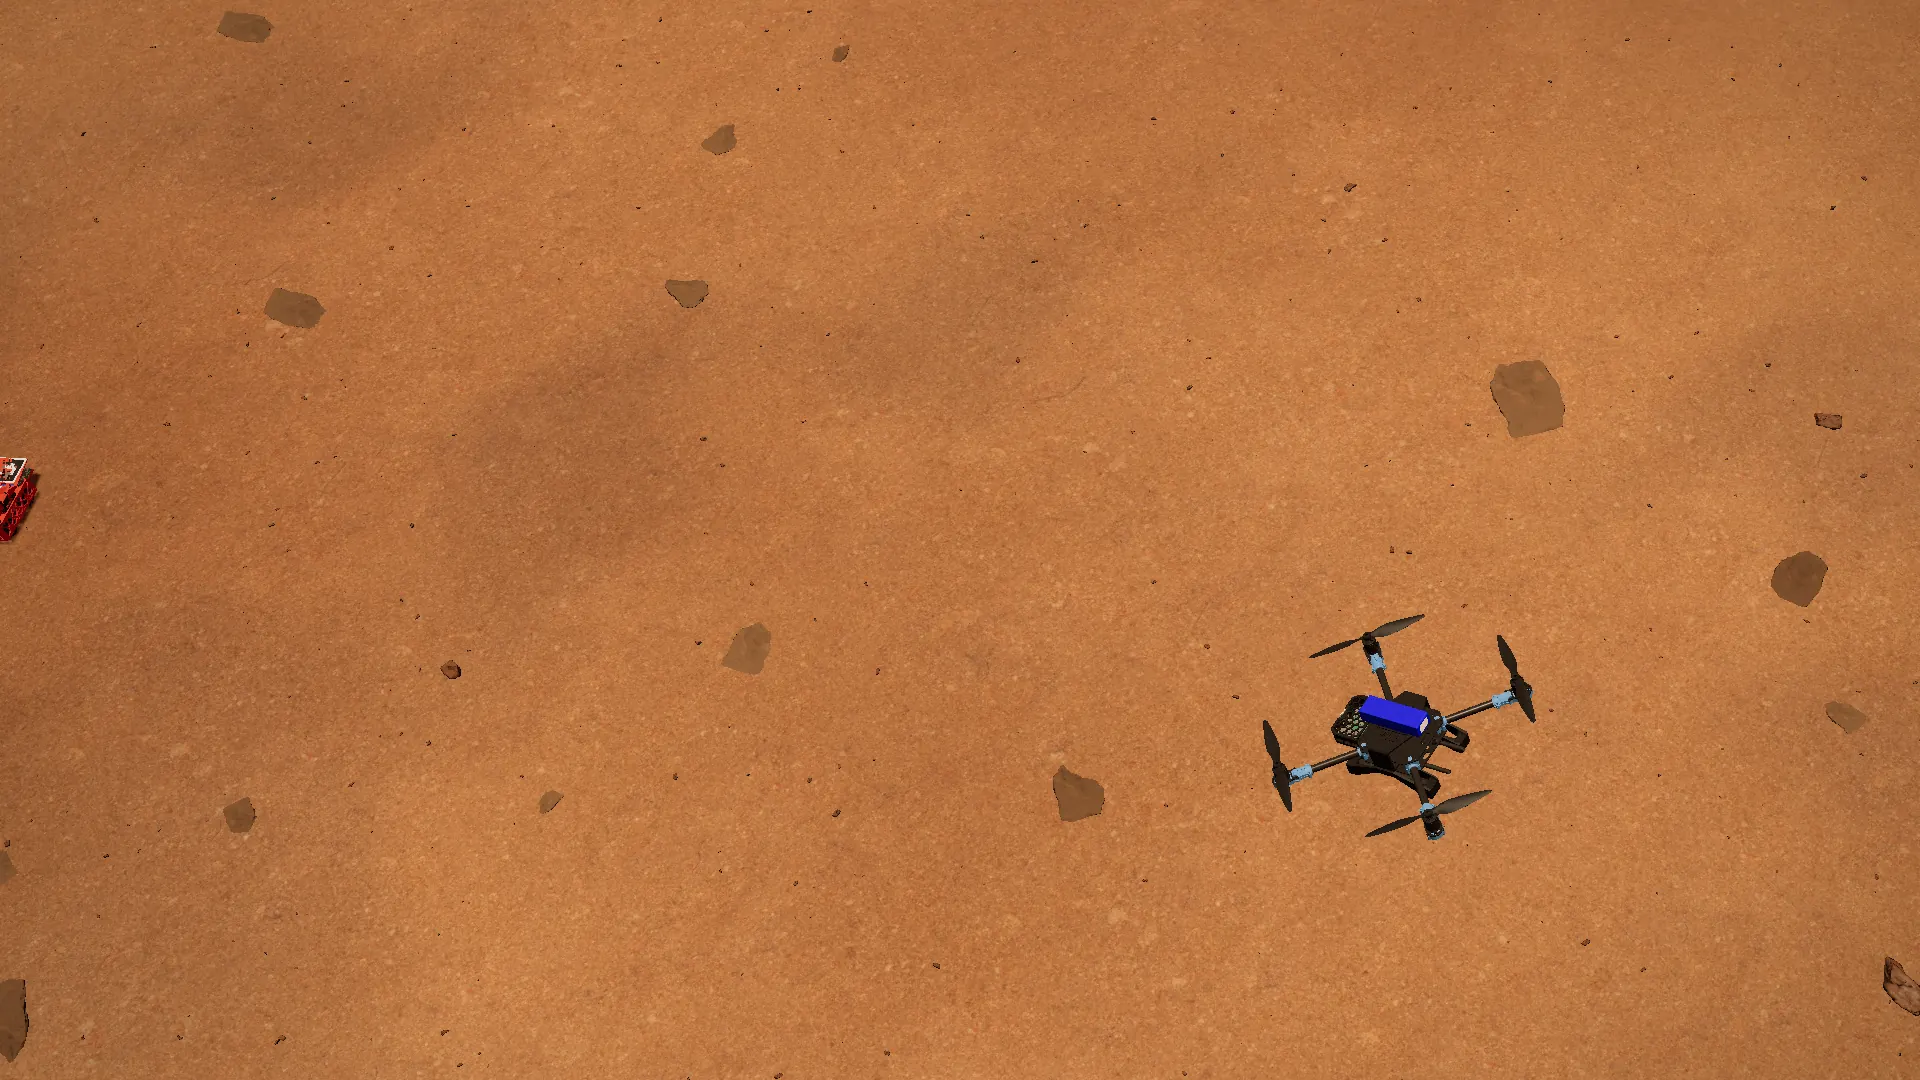
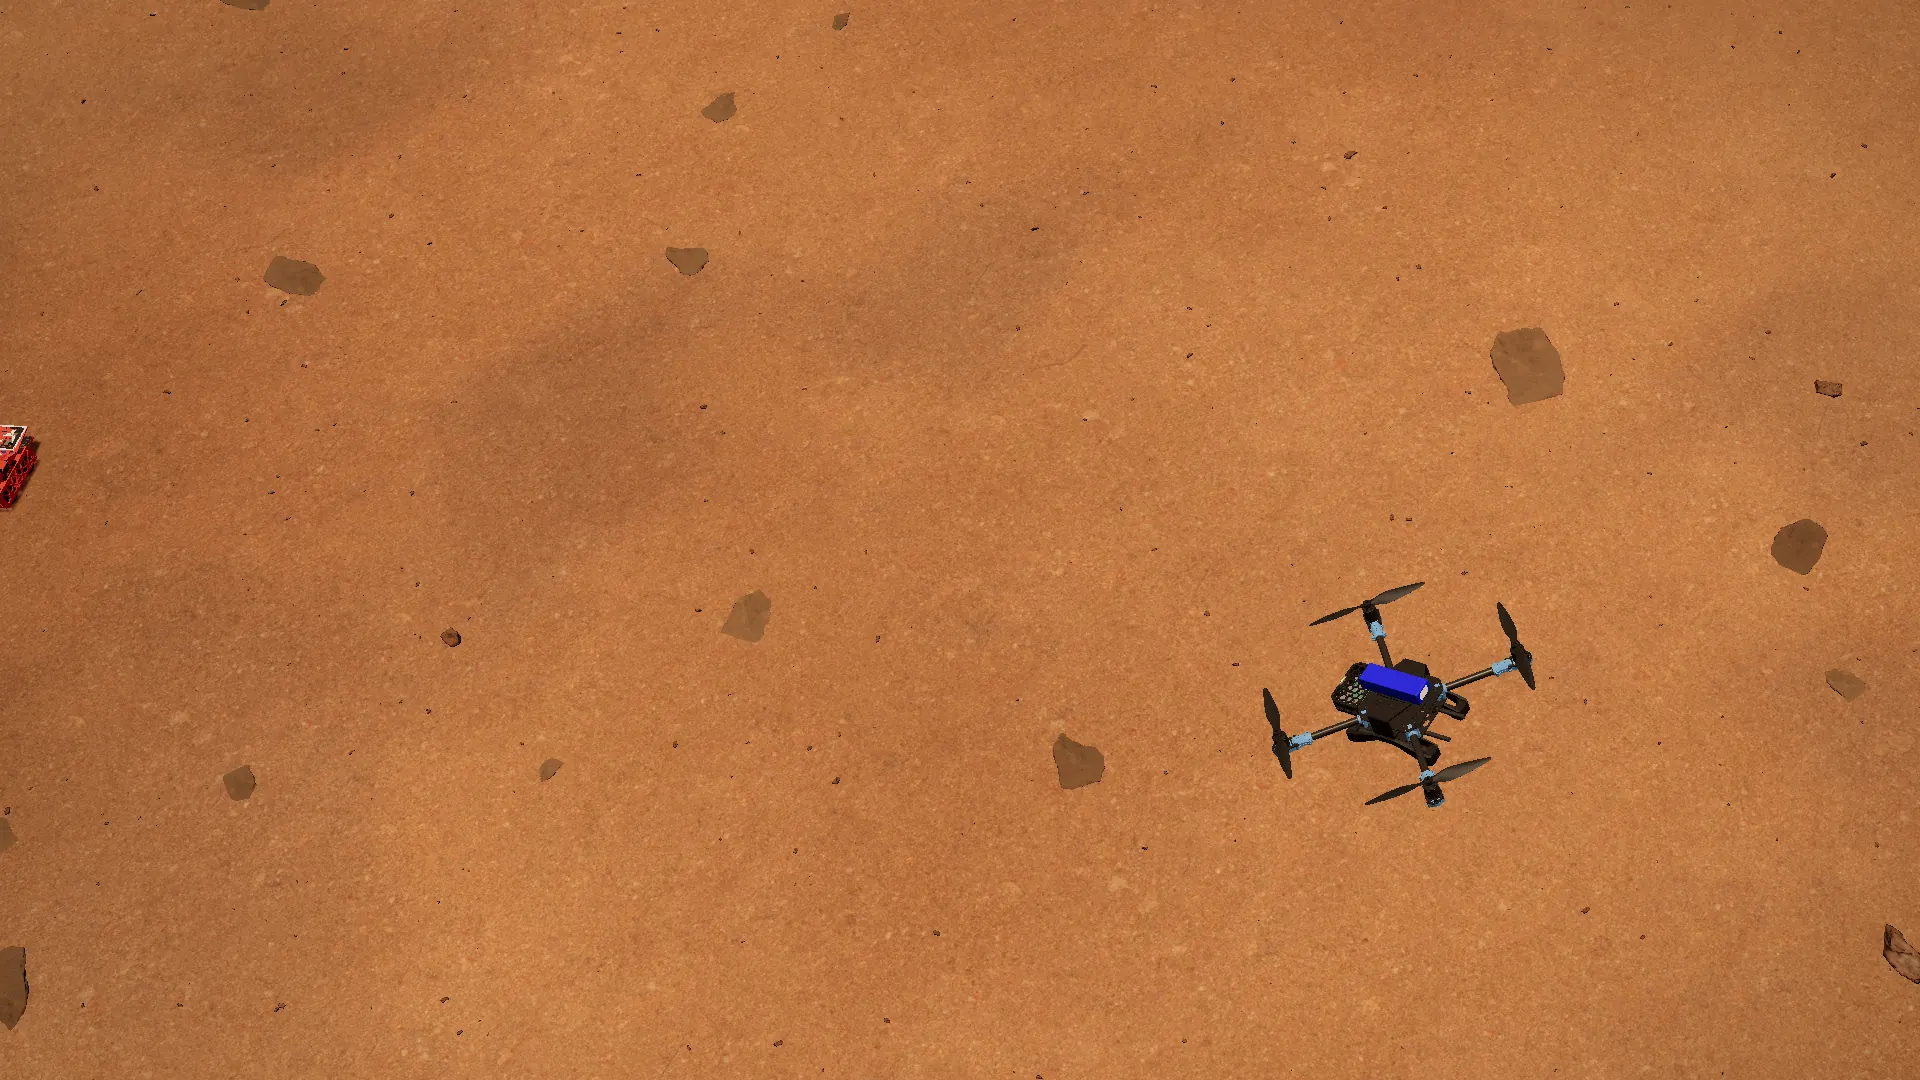
Drone on Wheels card: wide and short (about 4/5 of the right side), drone recentred below it
Claude-Session: https://claude.ai/code/session_01Fb2pgJPTDwSNCCPVLqNuft

diff --git a/assets/css/site.css b/assets/css/site.css
@@ -98,7 +98,7 @@ button { font: inherit; color: inherit; background: none; border: 0; padding: 0;
 .bg { position: fixed; inset: 0; z-index: 0; background: #2a1812; }
 .bg-still, .bg-canvas { position: absolute; inset: 0; width: 100%; height: 100%; }
 /* anchored on the point the 3D camera frames the drone on, so the fade from still to live lines up */
-.bg-still { object-fit: cover; object-position: 73% 68%; transition: opacity 1s var(--ease); }
+.bg-still { object-fit: cover; object-position: 73% 65%; transition: opacity 1s var(--ease); }
 .bg-canvas { opacity: 0; display: block; transition: opacity 1s var(--ease); }
 .bg.live .bg-canvas { opacity: 1; }
 .bg.live .bg-still { opacity: 0; }
@@ -123,8 +123,11 @@ button { font: inherit; color: inherit; background: none; border: 0; padding: 0;
 .content { position: relative; z-index: 2; }
 
 /* first screen: intro + staggered featured work on the left, the live project on the right */
-.hero { min-height: 100vh; min-height: 100svh; padding: 84px var(--gutter) 40px; display: flex; flex-direction: column; justify-content: center; position: relative; }
-.hero-left { width: min(47vw, 780px, calc((100svh - 490px) * 1.5)); min-width: min(500px, 100%); }
+.hero {
+  --left-w: max(min(47vw, 780px, calc((100svh - 490px) * 1.5)), 500px);
+  min-height: 100vh; min-height: 100svh; padding: 84px var(--gutter) 40px; display: flex; flex-direction: column; justify-content: center; position: relative;
+}
+.hero-left { width: var(--left-w); max-width: 100%; }
 .hello { padding: 0 0 24px; }
 .name { font-size: clamp(40px, 4.2vw, 64px); font-weight: 800; font-stretch: 125%; letter-spacing: -0.035em; line-height: 0.92; }
 .lede { margin-top: 12px; max-width: 54ch; font-size: clamp(15.5px, 1.15vw, 18px); line-height: 1.45; color: var(--text-2); font-weight: 450; }
@@ -151,25 +154,27 @@ button { font: inherit; color: inherit; background: none; border: 0; padding: 0;
 
 /* the project the live scene shows, top right over the scene */
 .scene-card {
-  position: absolute; z-index: 3; top: 86px; right: var(--gutter); width: min(410px, 30vw);
-  padding: 18px 22px 16px; border-radius: 18px;
+  /* wide and short: about four fifths of the space right of the text, so it covers little of the scene */
+  position: absolute; z-index: 3; top: 86px; right: var(--gutter);
+  width: calc((100vw - 2 * var(--gutter) - var(--left-w)) * 0.78);
+  padding: 16px 20px 14px; border-radius: 18px;
   background: rgba(12, 10, 9, 0.64); border: 1px solid rgba(255, 255, 255, 0.12);
   backdrop-filter: blur(14px) saturate(1.1); -webkit-backdrop-filter: blur(14px) saturate(1.1);
   box-shadow: 0 30px 60px -30px rgba(0, 0, 0, 0.8);
 }
 .sc-k { display: flex; align-items: center; gap: 9px; font-size: 12.5px; color: var(--text-2); }
-.scene-card h2 { margin-top: 10px; font-size: clamp(28px, 2.4vw, 38px); font-weight: 800; font-stretch: 122%; letter-spacing: -0.03em; line-height: 0.95; }
-.sc-sub { margin-top: 7px; font-size: 13.5px; color: var(--muted); }
+.sc-head { display: flex; align-items: flex-end; justify-content: space-between; gap: 16px; margin-top: 8px; }
+.scene-card h2 { font-size: clamp(26px, 2.3vw, 36px); font-weight: 800; font-stretch: 122%; letter-spacing: -0.03em; line-height: 0.95; }
+.sc-sub { margin-top: 6px; font-size: 13.5px; color: var(--muted); }
 .sc-p { margin-top: 10px; font-size: 14.5px; line-height: 1.45; color: var(--text-2); }
-.sc-fact { margin-top: 10px; padding: 8px 12px; border-radius: 10px; background: rgba(255, 255, 255, 0.06); border: 1px solid var(--line); font-size: 13.5px; color: var(--text-2); }
+.sc-fact { margin-top: 10px; padding: 7px 12px; border-radius: 10px; background: rgba(255, 255, 255, 0.06); border: 1px solid var(--line); font-size: 13.5px; color: var(--text-2); }
 .sc-fact b { color: var(--text); font-weight: 700; font-stretch: 110%; }
-.sc-hint { margin-top: 10px; padding-top: 10px; border-top: 1px solid var(--line); font-size: 12.5px; line-height: 1.45; color: var(--muted); }
+.sc-hint { display: flex; align-items: baseline; justify-content: space-between; gap: 14px; margin-top: 10px; padding-top: 9px; border-top: 1px solid var(--line); font-size: 12.5px; line-height: 1.45; color: var(--muted); }
 .h-touch { display: none; }
 @media (hover: none) { .h-fine { display: none; } .h-touch { display: inline; } }
-.sc-actions { display: flex; align-items: center; gap: 18px; margin-top: 12px; }
-.sc-go { display: inline-flex; align-items: center; gap: 8px; padding: 10px 18px; border-radius: 999px; background: var(--text); color: var(--bg); font-size: 14.5px; font-weight: 650; transition: background 0.2s; }
+.sc-go { flex: none; display: inline-flex; align-items: center; gap: 8px; padding: 10px 18px; border-radius: 999px; background: var(--text); color: var(--bg); font-size: 14.5px; font-weight: 650; transition: background 0.2s; }
 .sc-go:hover { background: var(--accent); }
-.sc-drive { font-size: 14px; color: var(--text-2); text-decoration: underline; text-underline-offset: 3px; text-decoration-color: rgba(255, 255, 255, 0.3); transition: color 0.2s; }
+.sc-drive { flex: none; font-size: 13px; color: var(--text-2); text-decoration: underline; text-underline-offset: 3px; text-decoration-color: rgba(255, 255, 255, 0.3); transition: color 0.2s; }
 .sc-drive:hover { color: var(--text); }
 
 /* bottom right: a fanned hand of project photos and the count of what is below */
@@ -364,18 +369,17 @@ figcaption { margin-top: 8px; font-size: 13.5px; color: var(--muted); line-heigh
 @media (max-width: 1080px) {
   .p-grid { grid-template-columns: 1fr; }
   .facts { position: static; }
-  .hero-left { width: min(56vw, 760px); }
+  .hero { --left-w: min(56vw, 760px); }
 }
 @media (max-width: 960px) {
   .hero { min-height: auto; padding-top: 46vh; padding-bottom: 120px; }
   .hero-left { width: 100%; }
   .veil { background: linear-gradient(180deg, rgba(10, 8, 7, 0.35) 0%, rgba(10, 8, 7, 0.1) 18%, rgba(10, 8, 7, 0.72) 36%, rgba(10, 8, 7, 0.9) 60%); }
   .bg-still { object-position: 52% 36%; }
-  .scene-card { top: 62px; left: var(--gutter); right: var(--gutter); width: auto; padding: 14px 16px; }
-  .scene-card h2 { margin-top: 6px; font-size: 26px; }
+  .scene-card { top: 62px; left: var(--gutter); right: var(--gutter); width: auto; padding: 13px 15px 12px; }
+  .scene-card h2 { font-size: 25px; }
   .sc-p, .sc-fact { display: none; }
-  .sc-hint { margin-top: 8px; padding-top: 8px; }
-  .sc-actions { margin-top: 10px; }
+  .sc-hint { margin-top: 9px; padding-top: 8px; }
   .sc-go { padding: 8px 15px; font-size: 14px; }
   .more { right: auto; left: 50%; transform: translateX(-50%); bottom: 14px; gap: 10px; padding: 9px 12px; }
   .more:hover { transform: translateX(-50%); }

diff --git a/index.html b/index.html
@@ -17,18 +17,18 @@
 <link rel="preconnect" href="https://fonts.googleapis.com">
 <link rel="preconnect" href="https://fonts.gstatic.com" crossorigin>
 <link rel="stylesheet" href="https://fonts.googleapis.com/css2?family=Mona+Sans:wdth,wght@75..125,200..900&display=swap">
-<link rel="stylesheet" href="/assets/css/site.css?v=eddb979d">
+<link rel="stylesheet" href="/assets/css/site.css?v=040d314d">
 <meta name="robots" content="noindex">
 <script type="importmap">{"imports":{"three":"/assets/vendor/three.module.min.js?v=512c8b83"}}</script>
-<link rel="preload" as="image" href="/assets/img/hero-still.webp?v=0dc93ff6" media="(min-width: 960px)" fetchpriority="high">
+<link rel="preload" as="image" href="/assets/img/hero-still.webp?v=c9bd01a6" media="(min-width: 960px)" fetchpriority="high">
 <link rel="preload" as="image" href="/assets/img/hero-still-m.webp?v=9de95548" media="(max-width: 959px)" fetchpriority="high">
 <script type="application/ld+json">{"@context":"https://schema.org","@type":"Person","name":"Jerry Li","url":"https://www.jerryli.design","email":"mailto:jerry@jerryli.design","sameAs":["https://www.linkedin.com/in/jerry-li-md/","https://github.com/jerryli08"],"alumniOf":"University of Illinois Urbana-Champaign","jobTitle":"Mechanical Engineering Student"}</script>
 </head>
 <body class="home">
 <a class="sr-only" href="#work">Skip to projects</a>
 <div class="bg" data-stage aria-hidden="true">
-  <picture><source media="(max-width: 959px)" srcset="/assets/img/hero-still-m.webp?v=9de95548"><img class="bg-still" src="/assets/img/hero-still.webp?v=0dc93ff6" alt="" width="1920" height="1080"></picture>
-  <canvas class="bg-canvas" data-world="landing" data-hero="/assets/js/world.js?v=96dcac58"></canvas>
+  <picture><source media="(max-width: 959px)" srcset="/assets/img/hero-still-m.webp?v=9de95548"><img class="bg-still" src="/assets/img/hero-still.webp?v=c9bd01a6" alt="" width="1920" height="1080"></picture>
+  <canvas class="bg-canvas" data-world="landing" data-hero="/assets/js/world.js?v=44ca16cd"></canvas>
 </div>
 <div class="veil" aria-hidden="true"></div>
 <div class="veil-dim" data-dim aria-hidden="true"></div>
@@ -74,12 +74,13 @@
     </div>
     <aside class="scene-card" aria-labelledby="scene-card-h">
   <p class="sc-k"><span class="dot"></span>Live 3D of this project, from my Fusion 360 CAD</p>
-  <h2 id="scene-card-h">Drone on Wheels</h2>
-  <p class="sc-sub">MIT Lincoln Laboratory · 2025</p>
+  <div class="sc-head">
+    <div><h2 id="scene-card-h">Drone on Wheels</h2><p class="sc-sub">MIT Lincoln Laboratory · 2025</p></div>
+    <a class="sc-go" href="/projects/hybrid-vehicle">See more <span class="arrow" aria-hidden="true">&#8599;</span></a>
+  </div>
   <p class="sc-p">A drone and a ground rover that dock together, so each one can carry the other. I came up with it, led the 7-person team, and designed and built all of the hardware.</p>
   <p class="sc-fact"><b>First author</b> of the research poster at IEEE MIT URTC 2025</p>
-  <p class="sc-hint"><span class="h-fine">Move your cursor: the rover drives there. Point far away and the drone carries it over.</span><span class="h-touch">Tap the ground: the rover drives there. Tap far away and the drone carries it over.</span></p>
-  <div class="sc-actions"><a class="sc-go" href="/projects/hybrid-vehicle">See more <span class="arrow" aria-hidden="true">&#8599;</span></a><a class="sc-drive" href="/drive">Drive it yourself</a></div>
+  <p class="sc-hint"><span><span class="h-fine">Move your cursor: the rover drives there. Point far away and the drone carries it over.</span><span class="h-touch">Tap the ground: the rover drives there. Tap far away and the drone carries it over.</span></span><a class="sc-drive" href="/drive">Drive it yourself</a></p>
 </aside>
   </section>
   <section class="work" id="work" aria-labelledby="work-h">

diff --git a/assets/js/world.js b/assets/js/world.js
@@ -770,7 +770,7 @@ export async function initWorld(canvas, opts = {}) {
     if (!AIR.on && dist > FLY_DIST) takeoff();
   }
   function pickWander() {
-    const A = frame.wide ? [0.52, 0.94, 0.52, 0.86] : [0.12, 0.88, 0.3, 0.44]; // clear of the text and the project card
+    const A = frame.wide ? [0.52, 0.94, 0.47, 0.86] : [0.12, 0.88, 0.3, 0.44]; // clear of the text and the project card
     const hopper = rnd() < 0.25; // now and then it flies instead of driving
     for (let i = 0; i < 24; i++) {
       const g = groundAt(lerp(A[0], A[1], rnd()), lerp(A[2], A[3], rnd()), hit);
@@ -916,7 +916,7 @@ export async function initWorld(canvas, opts = {}) {
     if (mode === 'landing') {
       const wide = w >= 960;
       frame.wide = wide;
-      frame.fx = wide ? 0.73 : 0.52; frame.fy = wide ? 0.68 : 0.36;
+      frame.fx = wide ? 0.73 : 0.52; frame.fy = wide ? 0.65 : 0.36;
       const F = wide ? 30 : 44; // visible vertical field of view
       const W2 = frame.fx >= 0.5 ? 2 * frame.fx * w : 2 * (1 - frame.fx) * w;
       const H2 = frame.fy >= 0.5 ? 2 * frame.fy * h : 2 * (1 - frame.fy) * h;

diff --git a/drive.html b/drive.html
@@ -17,12 +17,12 @@
 <link rel="preconnect" href="https://fonts.googleapis.com">
 <link rel="preconnect" href="https://fonts.gstatic.com" crossorigin>
 <link rel="stylesheet" href="https://fonts.googleapis.com/css2?family=Mona+Sans:wdth,wght@75..125,200..900&display=swap">
-<link rel="stylesheet" href="/assets/css/site.css?v=eddb979d">
+<link rel="stylesheet" href="/assets/css/site.css?v=040d314d">
 <meta name="robots" content="noindex">
 <script type="importmap">{"imports":{"three":"/assets/vendor/three.module.min.js?v=512c8b83"}}</script>
 </head>
 <body class="drive">
-<canvas class="drive-canvas" data-world="drive" data-hero="/assets/js/world.js?v=96dcac58"></canvas>
+<canvas class="drive-canvas" data-world="drive" data-hero="/assets/js/world.js?v=44ca16cd"></canvas>
 <div class="drive-hud">
   <a class="chip" href="/">&larr; Back to portfolio</a>
   <p class="chip drive-title"><span class="dot"></span>Ground vehicle from <a href="/projects/hybrid-vehicle">Drone on Wheels</a>, rendered from my CAD</p>

diff --git a/404.html b/404.html
@@ -17,7 +17,7 @@
 <link rel="preconnect" href="https://fonts.googleapis.com">
 <link rel="preconnect" href="https://fonts.gstatic.com" crossorigin>
 <link rel="stylesheet" href="https://fonts.googleapis.com/css2?family=Mona+Sans:wdth,wght@75..125,200..900&display=swap">
-<link rel="stylesheet" href="/assets/css/site.css?v=eddb979d">
+<link rel="stylesheet" href="/assets/css/site.css?v=040d314d">
 <meta name="robots" content="noindex">
 </head>
 <body class="project"><nav class="nav" aria-label="Main">

diff --git a/projects/autonomous-drone-racing.html b/projects/autonomous-drone-racing.html
@@ -17,7 +17,7 @@
 <link rel="preconnect" href="https://fonts.googleapis.com">
 <link rel="preconnect" href="https://fonts.gstatic.com" crossorigin>
 <link rel="stylesheet" href="https://fonts.googleapis.com/css2?family=Mona+Sans:wdth,wght@75..125,200..900&display=swap">
-<link rel="stylesheet" href="/assets/css/site.css?v=eddb979d">
+<link rel="stylesheet" href="/assets/css/site.css?v=040d314d">
 <meta name="robots" content="noindex">
 </head>
 <body class="project">

diff --git a/projects/battlebot.html b/projects/battlebot.html
@@ -17,7 +17,7 @@
 <link rel="preconnect" href="https://fonts.googleapis.com">
 <link rel="preconnect" href="https://fonts.gstatic.com" crossorigin>
 <link rel="stylesheet" href="https://fonts.googleapis.com/css2?family=Mona+Sans:wdth,wght@75..125,200..900&display=swap">
-<link rel="stylesheet" href="/assets/css/site.css?v=eddb979d">
+<link rel="stylesheet" href="/assets/css/site.css?v=040d314d">
 <meta name="robots" content="noindex">
 </head>
 <body class="project">

diff --git a/projects/bike-odometer.html b/projects/bike-odometer.html
@@ -17,7 +17,7 @@
 <link rel="preconnect" href="https://fonts.googleapis.com">
 <link rel="preconnect" href="https://fonts.gstatic.com" crossorigin>
 <link rel="stylesheet" href="https://fonts.googleapis.com/css2?family=Mona+Sans:wdth,wght@75..125,200..900&display=swap">
-<link rel="stylesheet" href="/assets/css/site.css?v=eddb979d">
+<link rel="stylesheet" href="/assets/css/site.css?v=040d314d">
 <meta name="robots" content="noindex">
 </head>
 <body class="project">

diff --git a/projects/braille-printer.html b/projects/braille-printer.html
@@ -17,7 +17,7 @@
 <link rel="preconnect" href="https://fonts.googleapis.com">
 <link rel="preconnect" href="https://fonts.gstatic.com" crossorigin>
 <link rel="stylesheet" href="https://fonts.googleapis.com/css2?family=Mona+Sans:wdth,wght@75..125,200..900&display=swap">
-<link rel="stylesheet" href="/assets/css/site.css?v=eddb979d">
+<link rel="stylesheet" href="/assets/css/site.css?v=040d314d">
 <meta name="robots" content="noindex">
 </head>
 <body class="project">

diff --git a/projects/build-plate-robot.html b/projects/build-plate-robot.html
@@ -17,7 +17,7 @@
 <link rel="preconnect" href="https://fonts.googleapis.com">
 <link rel="preconnect" href="https://fonts.gstatic.com" crossorigin>
 <link rel="stylesheet" href="https://fonts.googleapis.com/css2?family=Mona+Sans:wdth,wght@75..125,200..900&display=swap">
-<link rel="stylesheet" href="/assets/css/site.css?v=eddb979d">
+<link rel="stylesheet" href="/assets/css/site.css?v=040d314d">
 <meta name="robots" content="noindex">
 </head>
 <body class="project">

diff --git a/projects/cardboard-simulator.html b/projects/cardboard-simulator.html
@@ -17,7 +17,7 @@
 <link rel="preconnect" href="https://fonts.googleapis.com">
 <link rel="preconnect" href="https://fonts.gstatic.com" crossorigin>
 <link rel="stylesheet" href="https://fonts.googleapis.com/css2?family=Mona+Sans:wdth,wght@75..125,200..900&display=swap">
-<link rel="stylesheet" href="/assets/css/site.css?v=eddb979d">
+<link rel="stylesheet" href="/assets/css/site.css?v=040d314d">
 <meta name="robots" content="noindex">
 </head>
 <body class="project">

diff --git a/projects/electric-bike.html b/projects/electric-bike.html
@@ -17,7 +17,7 @@
 <link rel="preconnect" href="https://fonts.googleapis.com">
 <link rel="preconnect" href="https://fonts.gstatic.com" crossorigin>
 <link rel="stylesheet" href="https://fonts.googleapis.com/css2?family=Mona+Sans:wdth,wght@75..125,200..900&display=swap">
-<link rel="stylesheet" href="/assets/css/site.css?v=eddb979d">
+<link rel="stylesheet" href="/assets/css/site.css?v=040d314d">
 <meta name="robots" content="noindex">
 </head>
 <body class="project">
